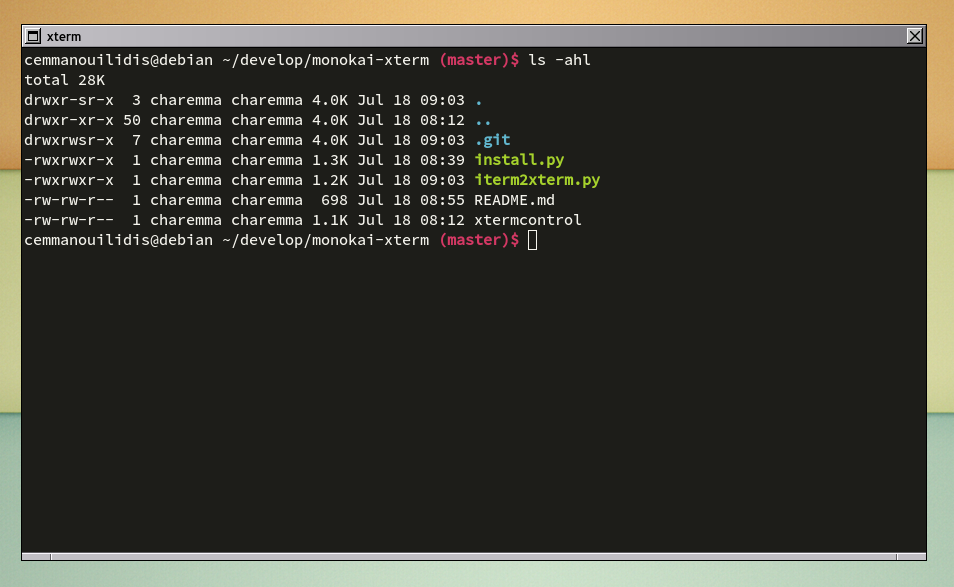
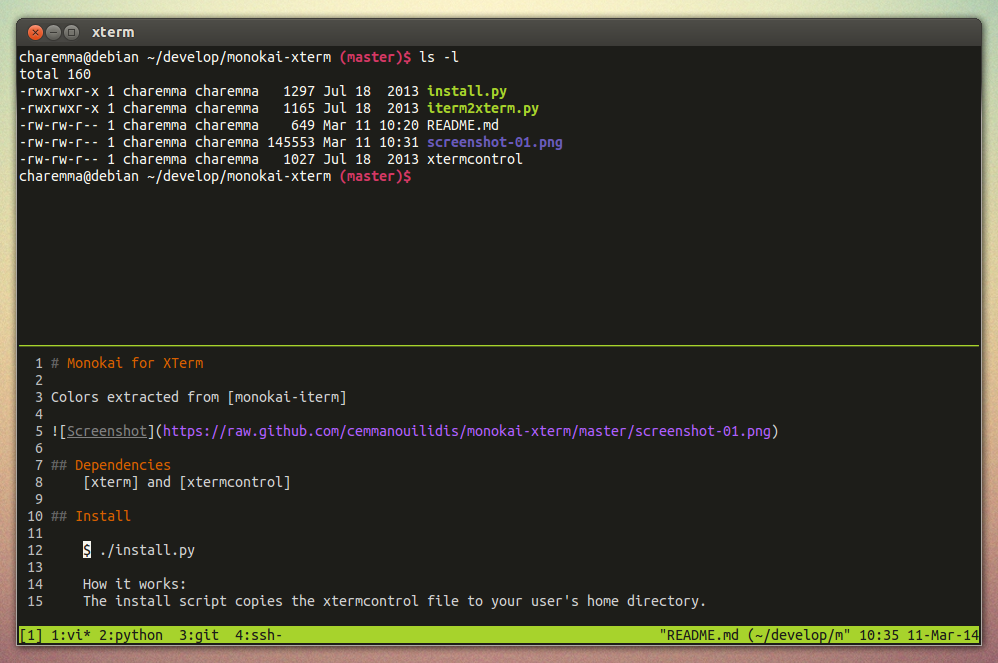
Update README and screenshot

Changed region(s): [[0.0, 0.0, 1.0, 1.0]]

diff --git a/README.md b/README.md
@@ -5,7 +5,7 @@ Colors extracted from [monokai-iterm]
 ![Screenshot](https://raw.github.com/cemmanouilidis/monokai-xterm/master/screenshot-01.png)
 
 ## Dependencies
-    xterm and xtermcontrol 
+    [xterm] and [xtermcontrol]
 
 ## Install
 
@@ -14,13 +14,13 @@ Colors extracted from [monokai-iterm]
     How it works:
     The install script copies the xtermcontrol file to your user's home directory. 
 
-## Goodies
-    run xterm using a true type font, e.g. [Adobe's Source Code Pro Font]
-
-    xterm -fa "Source Code Pro" -fs 14
+## Usage 
+    # run xterm using a true type font, e.g. Ubuntu Mono 
+    xterm -fa "Ubuntu Mono" -fs 12
+    # load xtermcontrol configuration
+    xtermcontrol
 
 
 [monokai-iterm]: https://github.com/dawnerd/monokai-iterm
 [xterm]: http://invisible-island.net/xterm
 [xtermcontrol]: http://thrysoee.dk/xtermcontrol 
-[Adobe's Source Code Pro Font]: https://sourceforge.net/projects/sourcecodepro.adobe
